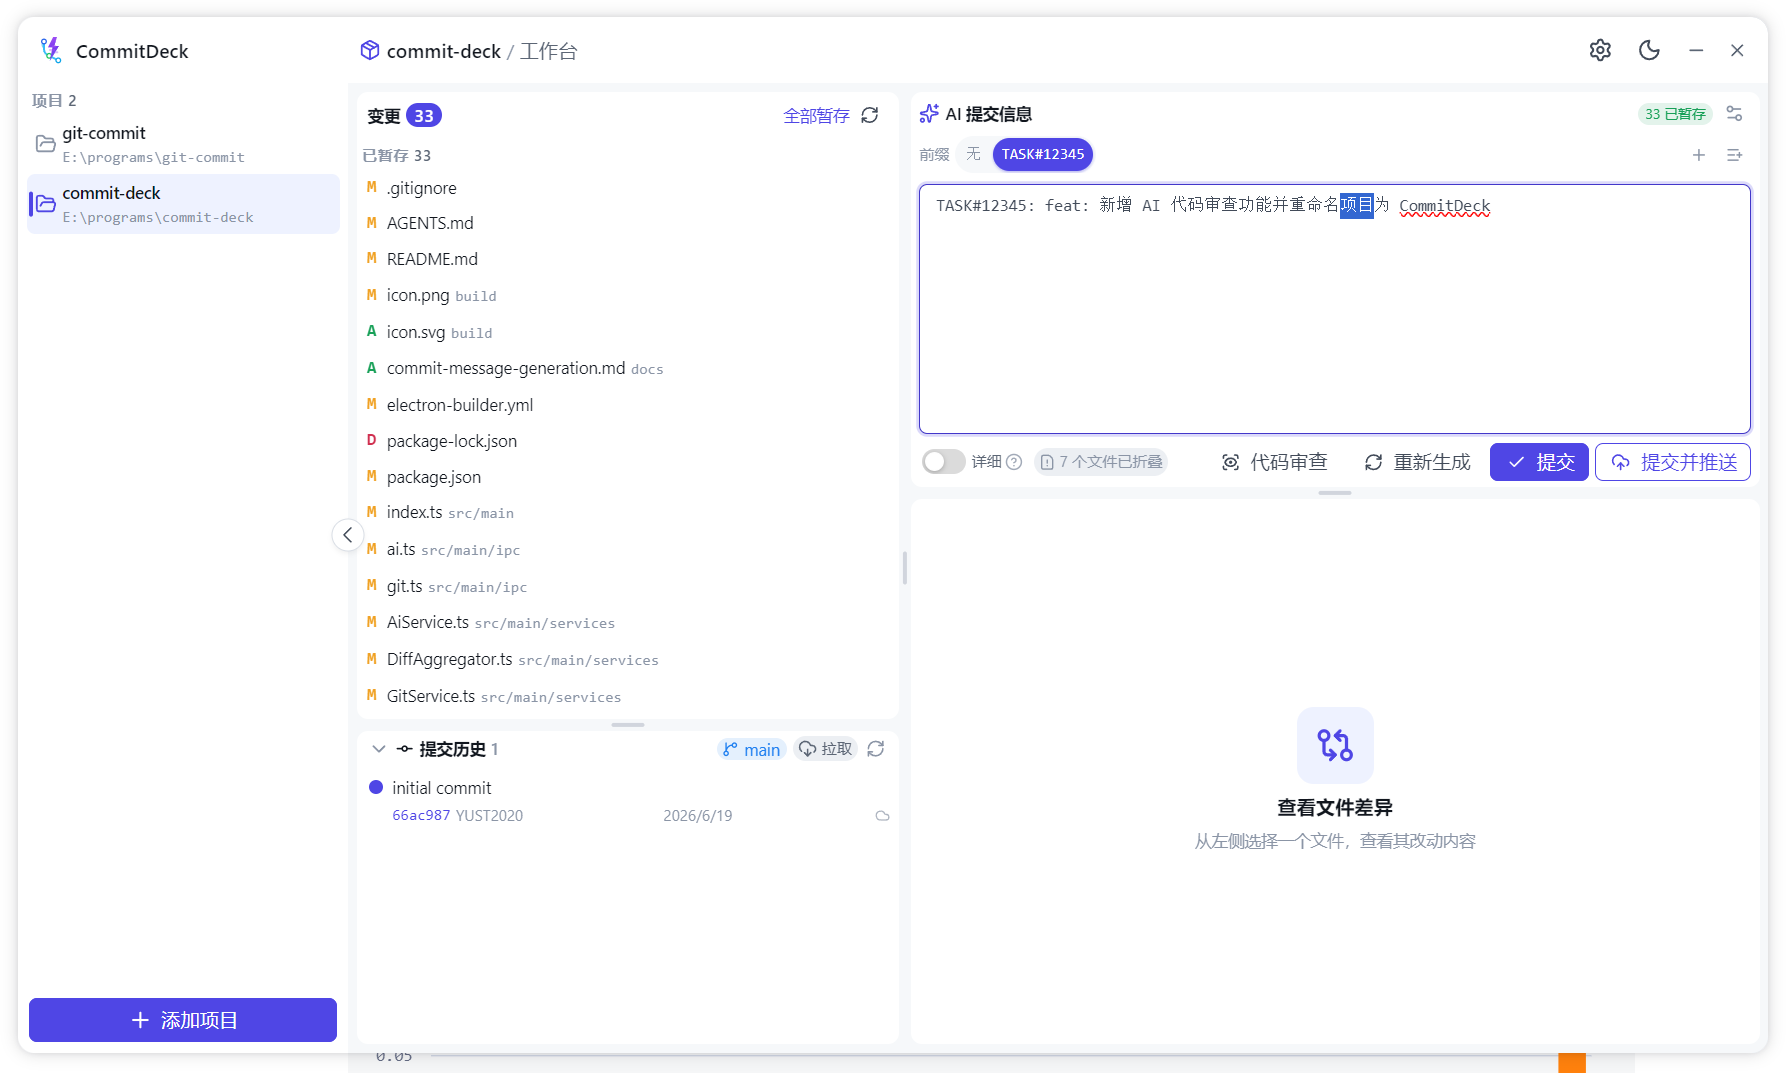
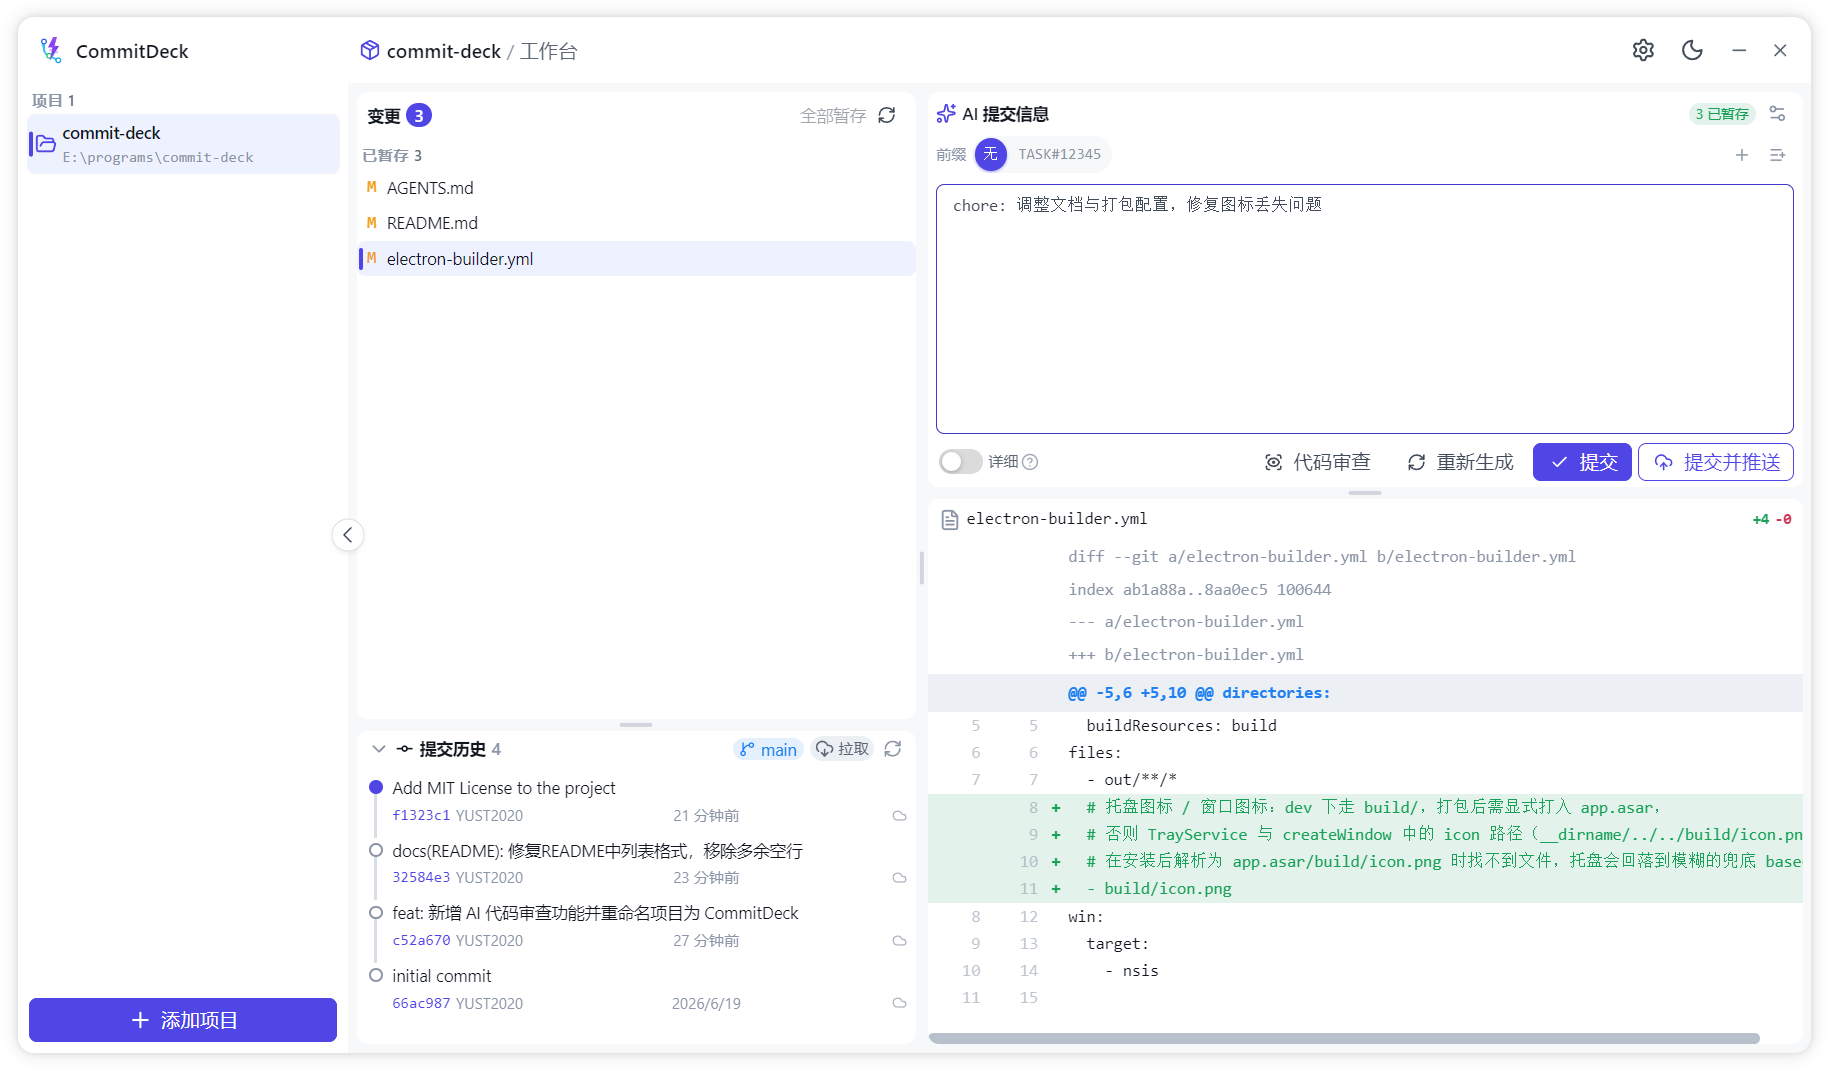
chore: 调整文档与打包配置，修复图标丢失问题

diff --git a/README.md b/README.md
@@ -26,7 +26,6 @@
 ### 🔍 AI Code Review
 - **按需评审**：独立评审通道，可挑选特定变更文件进行针对性评审。
 - **结构化报告**：Markdown 格式报告，包含总体评价及 `🔴 严重` / `🟡 建议` / `🔵 可选` 三级反馈。
-- **便捷交互**：支持一键重试与复制评审结果。
 
 ### 📦 本地优先 & 多项目管理
 - **系统集成**：所有 Git 操作均在本地执行，复用系统 SSH 与 Git Credential Manager。
@@ -38,14 +37,13 @@
 
 ## ⚖ 为什么选择 CommitDeck？
 
-Cursor、Trae 等 IDE 自带 AI 能力，但仍有很多不足：
+Cursor、VsCode插件、Trae 等 IDE 已有 AI Commit Message 能力，但仍有很多不足：
 
 | 痛点场景 | 通用 AI 编程工具 | CommitDeck |
 | :--- | :--- | :--- |
-| **提交前缀不可控** | 仅遵循固定规范，难以根据公司规范快速生成关联前缀（如 `TASK#123`，`BUGFIX#123`） | **完全自定义**，支持按项目记忆前缀列表 |
+| **提交前缀不可控** | 仅遵循固定规范，难以根据公司规范快速生成关联前缀（如 `TASK#123`，`BUGFIX#123`），仍然需要大量手动添加操作 | **完全自定义**，支持按项目记忆前缀列表，快速添加 |
 | **生成规则不可改** | 规则内置，无法适配特定团队规范 | **规则全开放**，支持自由定义 Prompt |
 | **模型选择受限** | 绑定厂商模型，无法切换或私有部署 | **协议全兼容**，支持 GLM / DeepSeek 及任意 OpenAI 端点 |
-| **独立 GUI 缺失** | 必须在 IDE 内操作，缺少独立管理界面 | **独立桌面端**，支持全局快捷键与多项目管理 |
 
 ---
 
@@ -53,8 +51,8 @@ Cursor、Trae 等 IDE 自带 AI 能力，但仍有很多不足：
 
 支持在「设置 → AI 服务」中灵活配置：
 
-- **智谱 GLM**：预设 BigModel 端点，推荐 `glm-4-flash`。
-- **DeepSeek**：支持 OpenAI / Anthropic 双协议，推荐 `deepseek-chat`。
+- **智谱 GLM**：预设 BigModel 端点，推荐 `glm-4.7-flash` (免费，但较慢且易限流)。
+- **DeepSeek**：支持 OpenAI / Anthropic 双协议，推荐 `deepseek-v4-flash` （速度质量均有保证，每次生成消耗 0.01 ~ 0.03 元）。
 - **自定义端点**：支持任意兼容 OpenAI / Anthropic 协议的服务（含私有部署）。
 
 ---

diff --git a/AGENTS.md b/AGENTS.md
@@ -138,4 +138,4 @@
 
 ## 参考
 
-`可行性分析.md` · `详细方案设计.md` · `src/renderer/tokens/tokens.ts` · `src/renderer/composables/useTheme.ts`
+`src/renderer/tokens/tokens.ts` · `src/renderer/composables/useTheme.ts`
